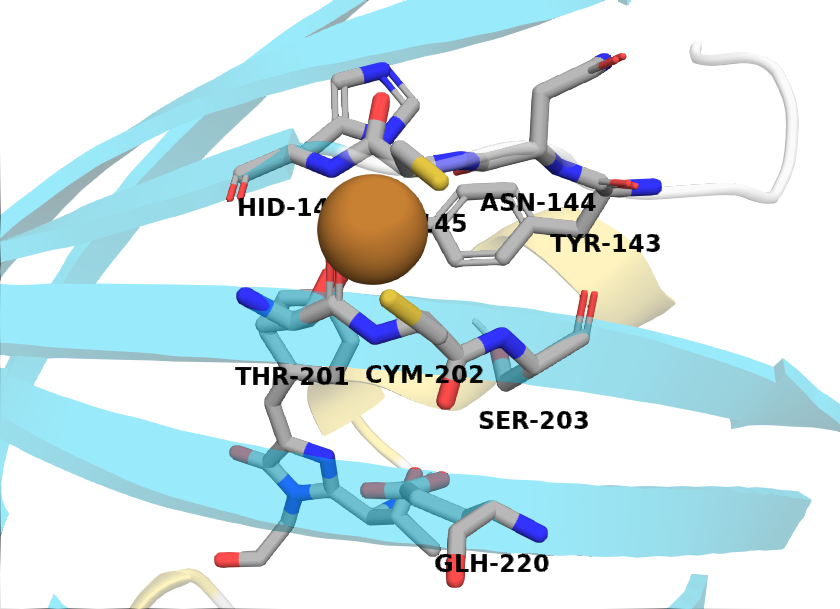
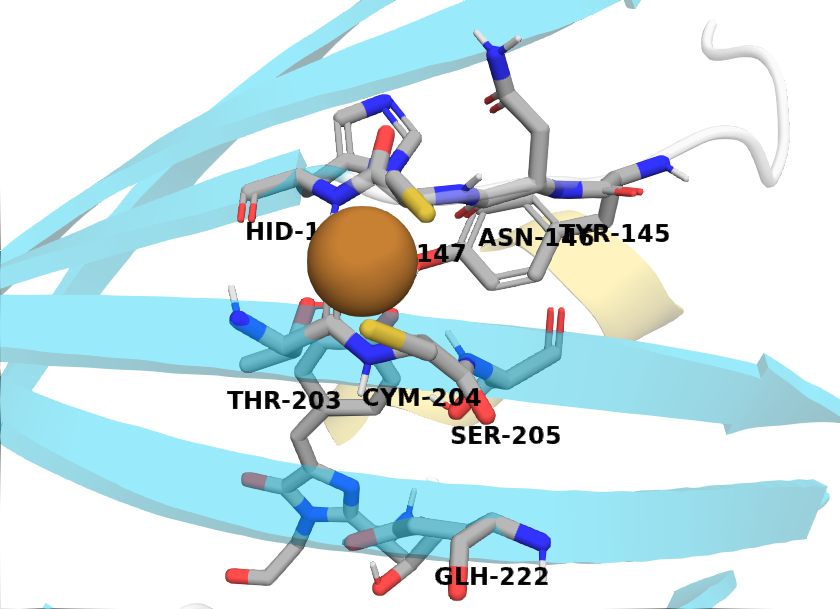
Fix relevant residue figure numbering

diff --git a/study/figures/h-background/h009-rogfp2-sims/h009.py b/study/figures/h-background/h009-rogfp2-sims/h009.py
@@ -1,5 +1,7 @@
 import pymol
 from pymol import cmd, util
+import os
+import tempfile
 
 # https://pymol.org/dokuwiki/doku.php?id=api:cmd:alpha
 
@@ -42,19 +44,49 @@ cmd.set_color("reduced-color", hex_to_rgb("#1e2e79"))
 cmd.set_color("oxidized-color", hex_to_rgb("#EC4067"))
 cmd.set_color("cu-color", hex_to_rgb("#f99752"))
 
+def modify_pdb(input_file, output_file):
+    with open(input_file, 'r') as infile, open(output_file, 'w') as outfile:
+        for line in infile:
+            if line.startswith('ATOM') or line.startswith('HETATM'):
+                # Increase residue number by 2
+                residue_num = int(line[22:26]) + 2
+                new_line = line[:22] + f"{residue_num:4d}" + line[26:]
+                outfile.write(new_line)
+            else:
+                outfile.write(line)
+
+path_reduced_original = "../../../figures/b-cys/b004-cys147_ca-cys204_ca/pdbs/f001-reduced-4.310.pdb"
+with tempfile.NamedTemporaryFile(mode='w+', suffix='.pdb', delete=False) as temp_file:
+    path_reduced = temp_file.name
+    modify_pdb(path_reduced_original, path_reduced)
+
+path_oxidized_original = "../../../figures/b-cys/b004-cys147_ca-cys204_ca/pdbs/f001-oxidized-4.080.pdb"
+with tempfile.NamedTemporaryFile(mode='w+', suffix='.pdb', delete=False) as temp_file:
+    path_oxidized = temp_file.name
+    modify_pdb(path_oxidized_original, path_oxidized)
+
+path_cu_original = "../../../figures/b-cys/b004-cys147_ca-cys204_ca/pdbs/f001-cu-4.080.pdb"
+with tempfile.NamedTemporaryFile(mode='w+', suffix='.pdb', delete=False) as temp_file:
+    path_cu = temp_file.name
+    modify_pdb(path_cu_original, path_cu)
+
 # Load files
 cmd.load(
-    "../../../figures/b-cys/b004-cys147_ca-cys204_ca/pdbs/f001-reduced-4.310.pdb",
+    path_reduced,
     "reduced",
 )
 cmd.load(
-    "../../../figures/b-cys/b004-cys147_ca-cys204_ca/pdbs/f001-oxidized-4.080.pdb",
+    path_oxidized,
     "oxidized",
 )
-cmd.load("../../../figures/b-cys/b004-cys147_ca-cys204_ca/pdbs/f001-cu-4.310.pdb", "cu")
+cmd.load(path_cu, "cu")
+
+os.unlink(path_reduced)
+os.unlink(path_oxidized)
+os.unlink(path_cu)
 
 # Make selections
-residue_selection = "(resi 143-146 or resi 201-203 or resi 220)"
+residue_selection = "(resi 145-148 or resi 203-205 or resi 222)"
 cmd.deselect()
 cmd.select("cro", "resname cro")
 cmd.select(
@@ -105,13 +137,15 @@ cmd.show("sticks", "relevant-reduced")
 cmd.show("sticks", "relevant-oxidized")
 cmd.show("sticks", "relevant-cu")
 # cmd.show("spheres", "element Cu")
-cmd.hide(representation="sticks", selection="element H")
-cmd.show(representation="sticks", selection="(resi 145 or resi 202) and name HG")
-cmd.show(representation="sticks", selection="(resi 143) and name HH")
-cmd.show(representation="sticks", selection="(resi 146) and name HD1")
-cmd.show(representation="sticks", selection="(resi 201) and name HG1")
-cmd.show(representation="sticks", selection="(resi 203) and name HG")
-cmd.show(representation="sticks", selection="(resi 220) and name HE2")
+cmd.hide(representation="sticks", selection="elem H")
+cmd.show(representation="sticks", selection="elem H and (neighbor elem O or neighbor elem N or neighbor elem S)")
+# cmd.show(representation="sticks", selection="(resname CRO) and name H4")
+# cmd.show(representation="sticks", selection="(resi 147 or resi 204) and name HG")
+# cmd.show(representation="sticks", selection="(resi 145) and name HH")
+# cmd.show(representation="sticks", selection="(resi 148) and name HD1")
+# cmd.show(representation="sticks", selection="(resi 203) and name HG1")
+# cmd.show(representation="sticks", selection="(resi 205) and name HG")
+# cmd.show(representation="sticks", selection="(resi 222) and name HE2")
 cmd.hide(representation="cartoon", selection="relevant-reduced")
 cmd.hide(representation="cartoon", selection="relevant-oxidized")
 cmd.hide(representation="cartoon", selection="relevant-cu")

diff --git a/study/dissemination/reports/sims/README.md b/study/dissemination/reports/sims/README.md
@@ -36,15 +36,11 @@ We performed the following three sets of simulations.
 Differences between reduced and oxidized states are indicative of the canonical roGFP2 atomistic mechanism.
 If we observe similar differences between reduced and copper states, this would suggest a similar mechanism as the oxidized state; however, deviations between oxidized and copper would suggest a separate mechanism.
 
-The figure below shows most of the relevant residues involved in the cysteine sensor and florescent mechanism.
+The figure below shows relevant residues involved in our analysis.
 
 <figure markdown>
 ![](../../../figures/h-background/h009-rogfp2-sims/relevant-reduced.png){ width=700 }
 </figure>
-
-!!! warning
-    Our simulations use residue numbers that are two less than the canonical sequence.
-    For example, Cys145 in our simulations is Cys147 in all of our results and discussions.
 
 ## Backbone
 
